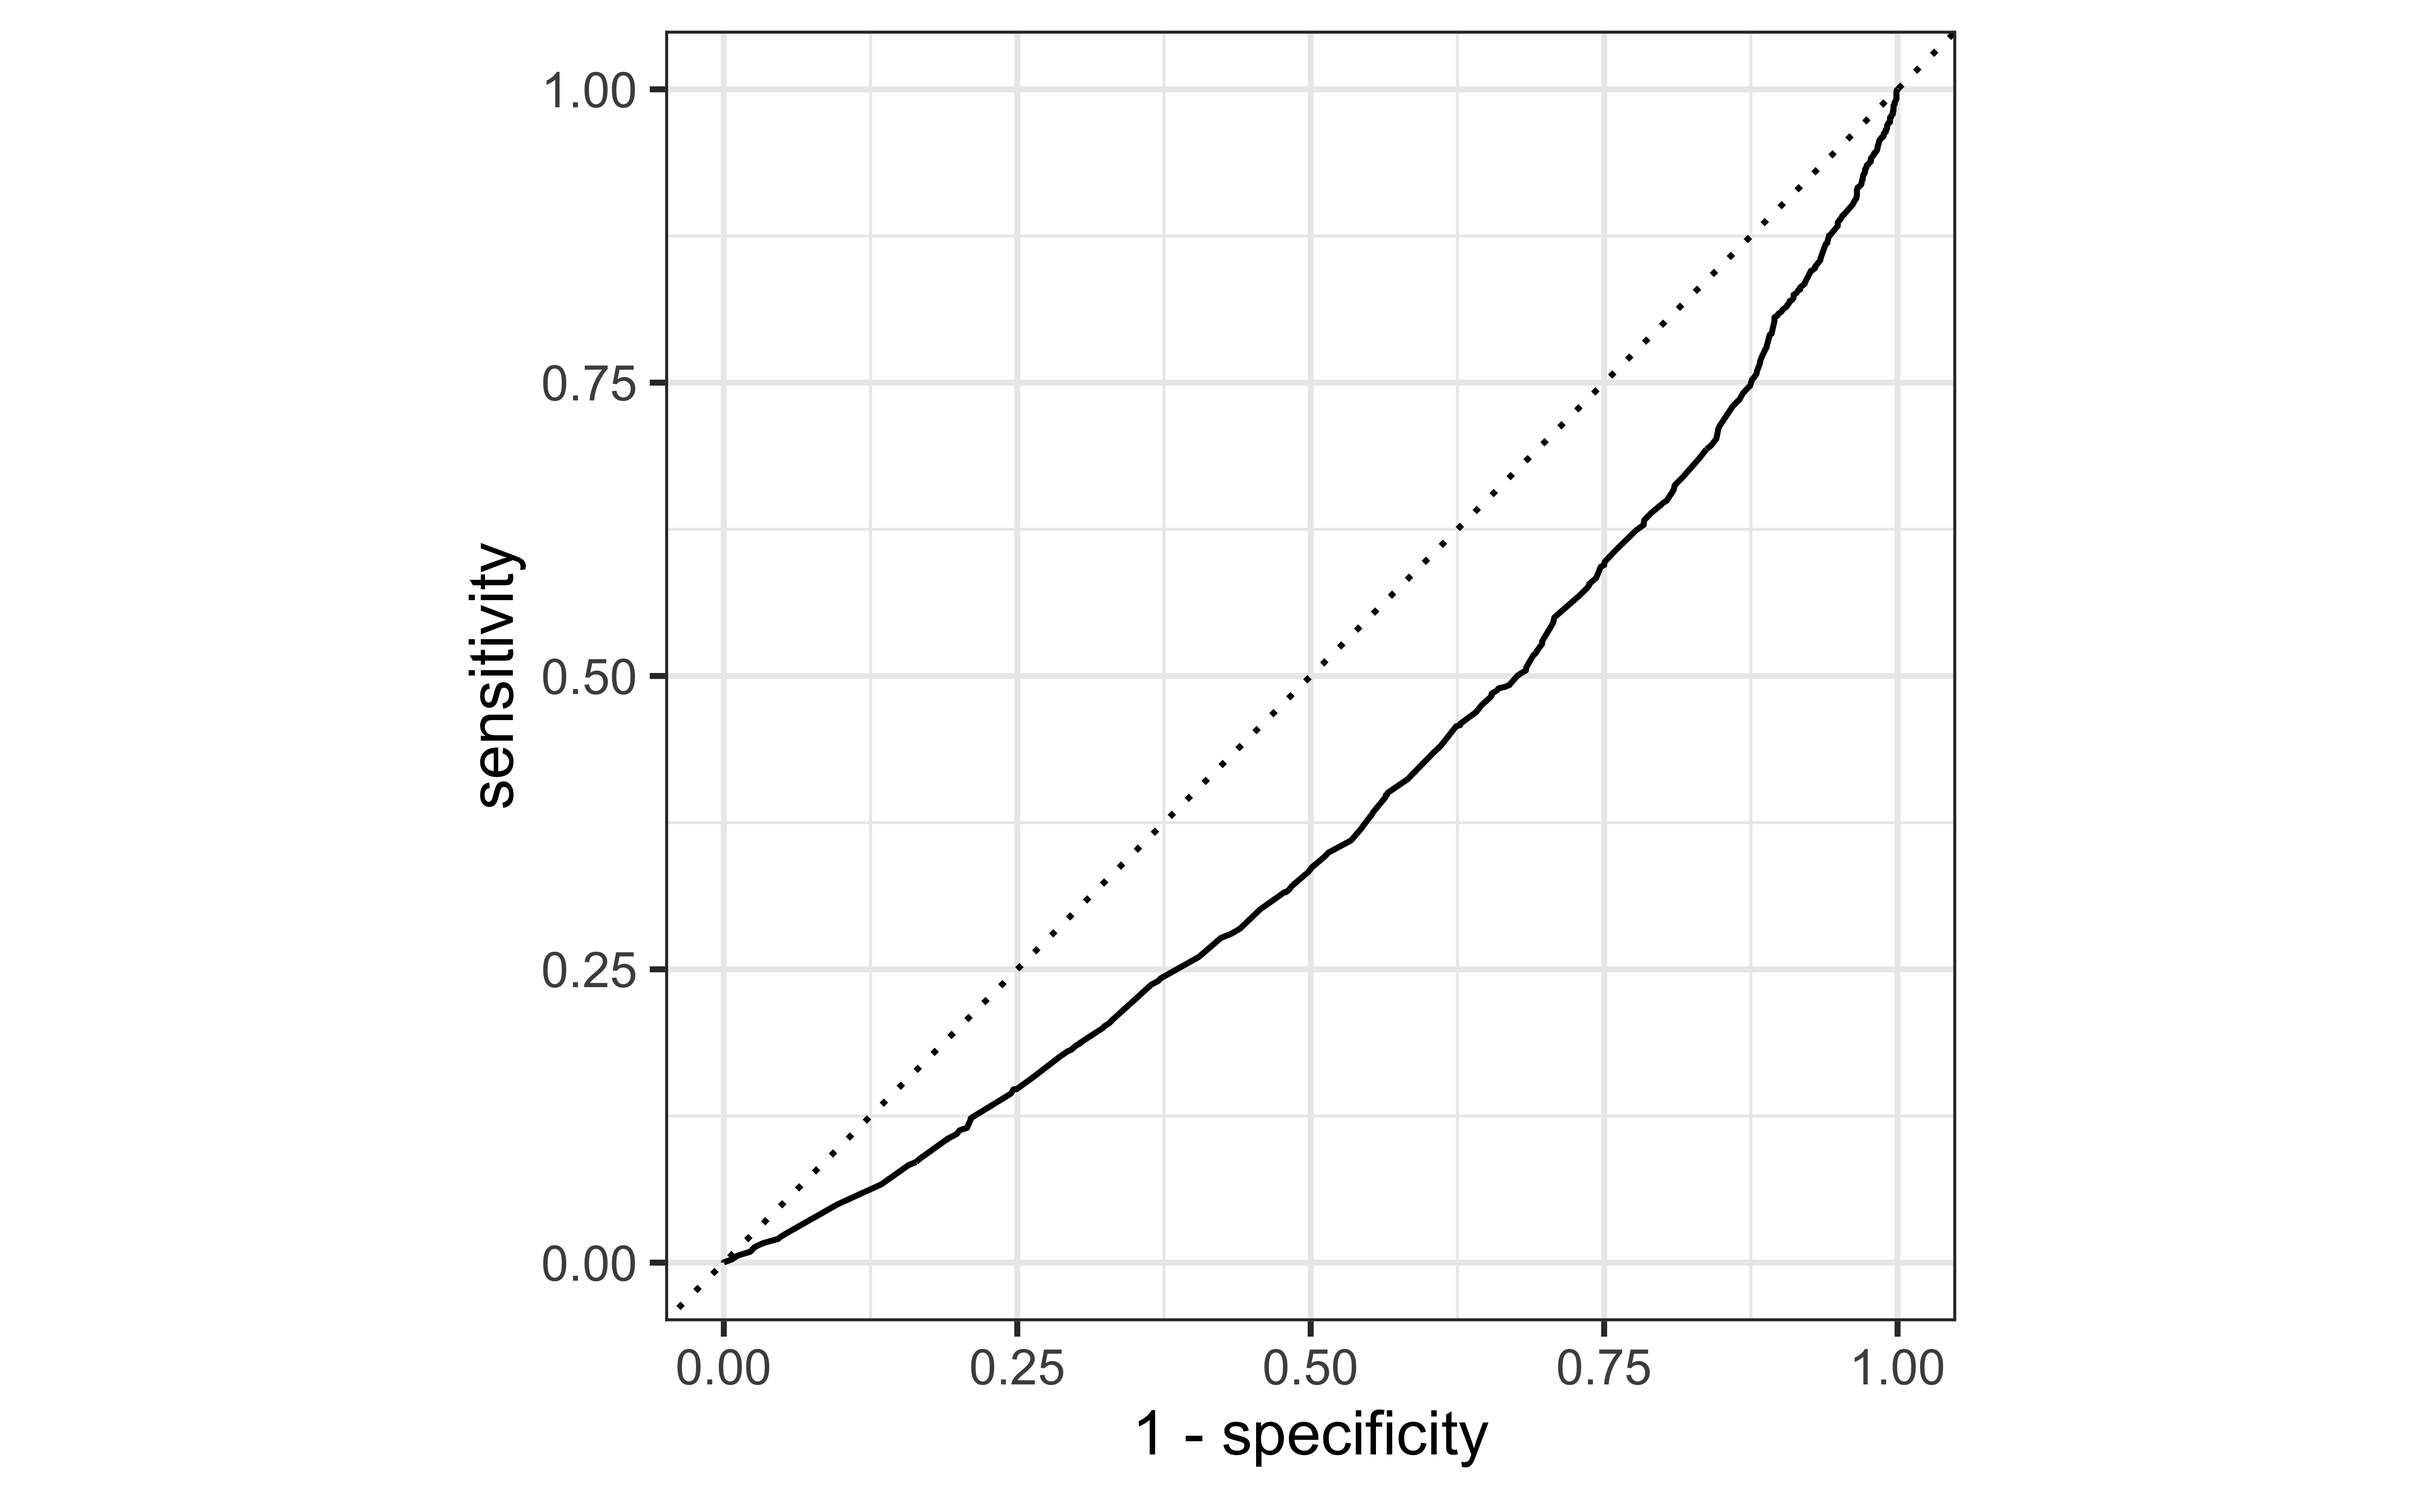
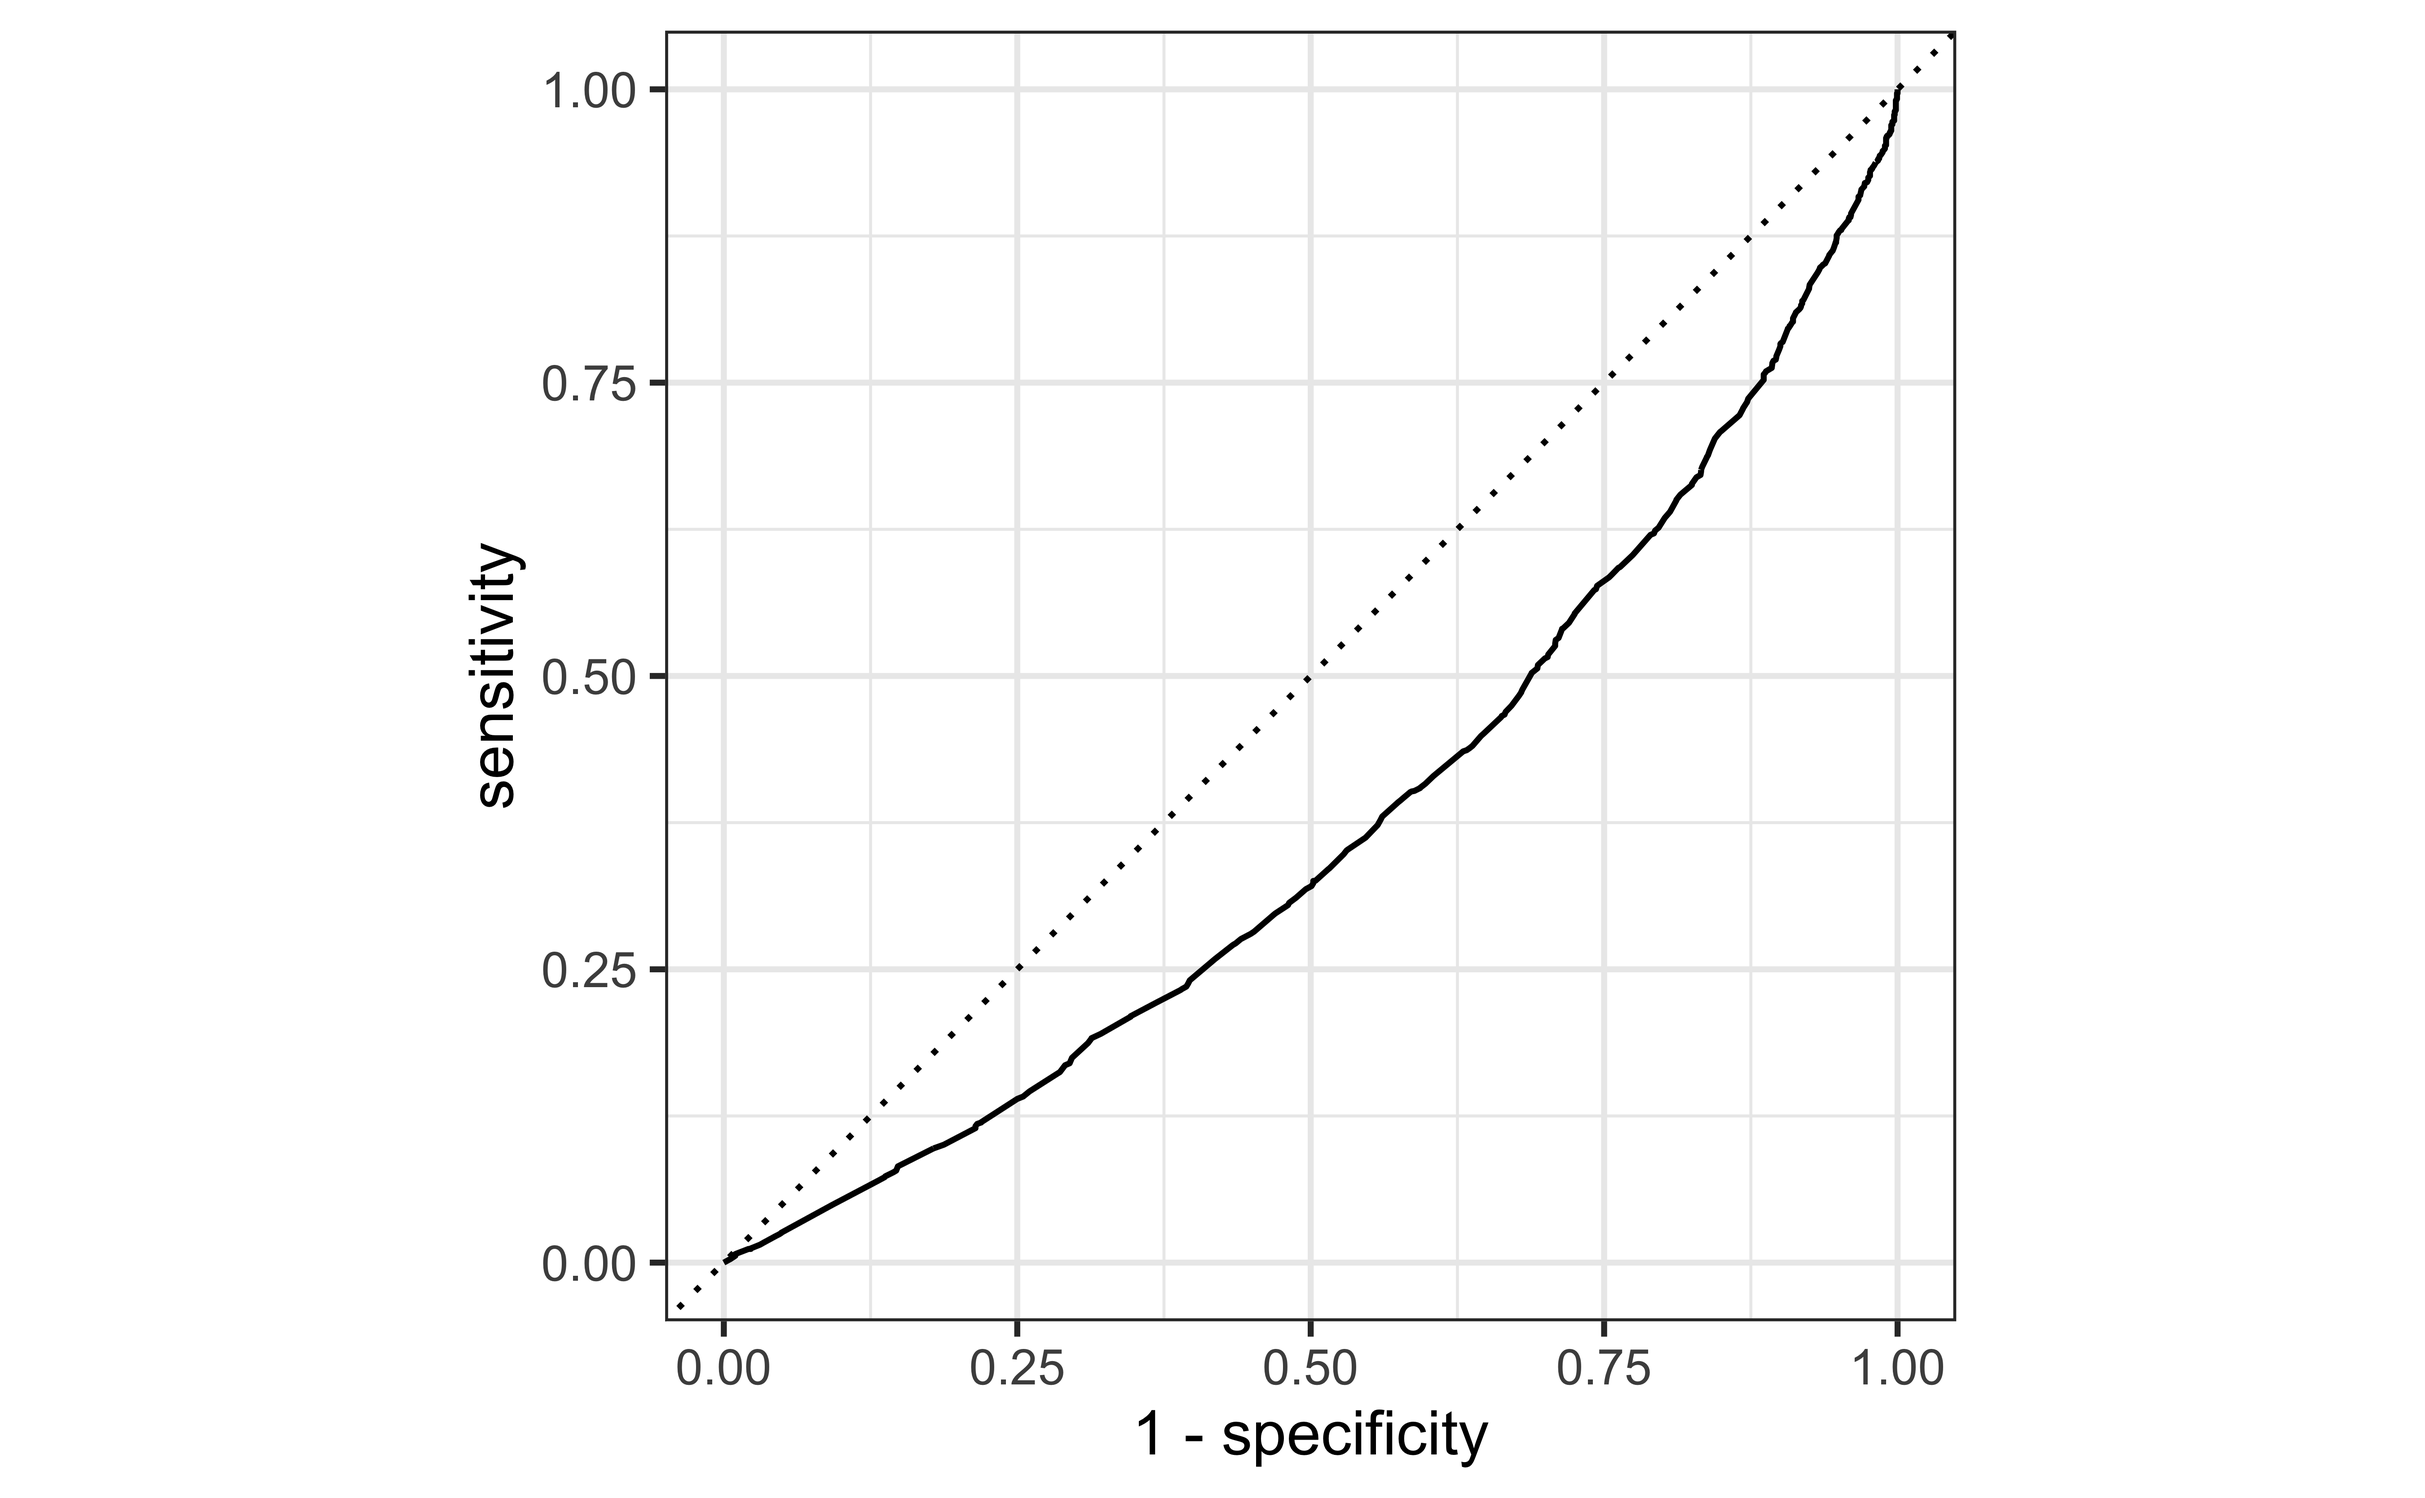
presentation

diff --git a/presentation.html b/presentation.html
@@ -87,10 +87,10 @@ class: inverse, centre, middle
 
 ---
 #Prison Type and Violence 
-.pull-left[
+.pull-right[
 - The area under the ROC curve is 0.474 which tells us that the prison type variable is not effective at predicting whether a prisoner will reoffend.
 ]
-.pull-right[
+.pull-left[
 
 
 &lt;img src="presentation_files/figure-html/building model-1.png" width="80%" /&gt;
@@ -101,6 +101,10 @@ class: inverse, centre, middle
 .pull-left[
 &lt;img src="presentation_files/figure-html/unnamed-chunk-3-1.png" width="80%" /&gt;
 
+]
+
+.pull-right[
+- The area under the curve is 0.4479 which shows there is no correlation between the violence of the prisoner and reoffending.
 ]
 ---
 # Reoffending and violence, age, sex, religion and prison type 
@@ -124,33 +128,14 @@ class: inverse, centre, middle
 ]
 
 .pull-right[
-- The area under the curve is 
+- The area under the curve is 0.374 which shows there is no correlation between all the variables and reoffending.
 ]
----
-# Age Group 
 
-.pull-left[
-
-```
-## New names:
-## New names:
-## • `age_group_X18...20` -&gt; `age_group_X18`
-## • `age_group_X21...24` -&gt; `age_group_X21`
-## • `age_group_X25...29` -&gt; `age_group_X25`
-## • `age_group_X30...39` -&gt; `age_group_X30`
-## • `age_group_X40...49` -&gt; `age_group_X40`
-## • `age_group_X50...59` -&gt; `age_group_X50`
-## • `age_group_X60...69` -&gt; `age_group_X60`
-```
-
-&lt;img src="presentation_files/figure-html/age model-1.png" width="80%" /&gt;
-
-]
 ---
 # Violence and Sex
 
 .pull-left[
-&lt;img src="presentation_files/figure-html/unnamed-chunk-6-1.png" width="80%" /&gt;
+&lt;img src="presentation_files/figure-html/unnamed-chunk-5-1.png" width="80%" /&gt;
 ]
 .pull-right[
 - The area under the curve is 0.496 showing again there is no correlation between the sex of the prisoner and the violence of the crimes they commit 
@@ -161,199 +146,11 @@ class: inverse, centre, middle
 
 - The models show us that the chance of reoffence cannot be predicted by any variable, including the violence of the crimes committed.
 ---
+class: inverse, middle, centre
 
-# xaringan
-
-- The presentation is created using the `xaringan` package
-
-- Use `---` to separate slides and `--` for incremental builds
-
---
-
-- Like this
+# Are there any questions?
 
 ---
-
-# Layouts
-
-You can use plain text
-
-- or bullet points
-
-.pull-left[
-or text in two columns `\(^*\)`
-]
-.pull-right[
-- like
-- this
-]
-
-.footnote[
-[*] And add footnotes
-]
-
----
-
-# Code
-
-
-```r
-# a boring regression
-model &lt;- lm(dist ~ speed, data = cars)
-tidy(model)
-```
-
-```
-## # A tibble: 2 × 5
-##   term        estimate std.error statistic  p.value
-##   &lt;chr&gt;          &lt;dbl&gt;     &lt;dbl&gt;     &lt;dbl&gt;    &lt;dbl&gt;
-## 1 (Intercept)   -17.6      6.76      -2.60 1.23e- 2
-## 2 speed           3.93     0.416      9.46 1.49e-12
-```
-
-```r
-glance(model)
-```
-
-```
-## # A tibble: 1 × 12
-##   r.squared adj.r.squared sigma statistic  p.value    df logLik   AIC   BIC
-##       &lt;dbl&gt;         &lt;dbl&gt; &lt;dbl&gt;     &lt;dbl&gt;    &lt;dbl&gt; &lt;dbl&gt;  &lt;dbl&gt; &lt;dbl&gt; &lt;dbl&gt;
-## 1     0.651         0.644  15.4      89.6 1.49e-12     1  -207.  419.  425.
-## # ℹ 3 more variables: deviance &lt;dbl&gt;, df.residual &lt;int&gt;, nobs &lt;int&gt;
-```
-
----
-
-# Plots
-
-
-
-&lt;img src="presentation_files/figure-html/plot-iris-1.png" width="80%" /&gt;
-
----
-
-## Plot and text
-
-.pull-left[
-- Some text
-- goes here
-]
-.pull-right[
-&lt;img src="presentation_files/figure-html/unnamed-chunk-7-1.png" width="100%" /&gt;
-]
-
----
-
-# Tables
-
-If you want to generate a table, make sure it is in the HTML format (instead of Markdown or other formats), e.g.,
-
-&lt;table&gt;
- &lt;thead&gt;
-  &lt;tr&gt;
-   &lt;th style="text-align:right;"&gt; Sepal.Length &lt;/th&gt;
-   &lt;th style="text-align:right;"&gt; Sepal.Width &lt;/th&gt;
-   &lt;th style="text-align:right;"&gt; Petal.Length &lt;/th&gt;
-   &lt;th style="text-align:right;"&gt; Petal.Width &lt;/th&gt;
-   &lt;th style="text-align:left;"&gt; Species &lt;/th&gt;
-  &lt;/tr&gt;
- &lt;/thead&gt;
-&lt;tbody&gt;
-  &lt;tr&gt;
-   &lt;td style="text-align:right;"&gt; 5.1 &lt;/td&gt;
-   &lt;td style="text-align:right;"&gt; 3.5 &lt;/td&gt;
-   &lt;td style="text-align:right;"&gt; 1.4 &lt;/td&gt;
-   &lt;td style="text-align:right;"&gt; 0.2 &lt;/td&gt;
-   &lt;td style="text-align:left;"&gt; setosa &lt;/td&gt;
-  &lt;/tr&gt;
-  &lt;tr&gt;
-   &lt;td style="text-align:right;"&gt; 4.9 &lt;/td&gt;
-   &lt;td style="text-align:right;"&gt; 3.0 &lt;/td&gt;
-   &lt;td style="text-align:right;"&gt; 1.4 &lt;/td&gt;
-   &lt;td style="text-align:right;"&gt; 0.2 &lt;/td&gt;
-   &lt;td style="text-align:left;"&gt; setosa &lt;/td&gt;
-  &lt;/tr&gt;
-  &lt;tr&gt;
-   &lt;td style="text-align:right;"&gt; 4.7 &lt;/td&gt;
-   &lt;td style="text-align:right;"&gt; 3.2 &lt;/td&gt;
-   &lt;td style="text-align:right;"&gt; 1.3 &lt;/td&gt;
-   &lt;td style="text-align:right;"&gt; 0.2 &lt;/td&gt;
-   &lt;td style="text-align:left;"&gt; setosa &lt;/td&gt;
-  &lt;/tr&gt;
-  &lt;tr&gt;
-   &lt;td style="text-align:right;"&gt; 4.6 &lt;/td&gt;
-   &lt;td style="text-align:right;"&gt; 3.1 &lt;/td&gt;
-   &lt;td style="text-align:right;"&gt; 1.5 &lt;/td&gt;
-   &lt;td style="text-align:right;"&gt; 0.2 &lt;/td&gt;
-   &lt;td style="text-align:left;"&gt; setosa &lt;/td&gt;
-  &lt;/tr&gt;
-  &lt;tr&gt;
-   &lt;td style="text-align:right;"&gt; 5.0 &lt;/td&gt;
-   &lt;td style="text-align:right;"&gt; 3.6 &lt;/td&gt;
-   &lt;td style="text-align:right;"&gt; 1.4 &lt;/td&gt;
-   &lt;td style="text-align:right;"&gt; 0.2 &lt;/td&gt;
-   &lt;td style="text-align:left;"&gt; setosa &lt;/td&gt;
-  &lt;/tr&gt;
-  &lt;tr&gt;
-   &lt;td style="text-align:right;"&gt; 5.4 &lt;/td&gt;
-   &lt;td style="text-align:right;"&gt; 3.9 &lt;/td&gt;
-   &lt;td style="text-align:right;"&gt; 1.7 &lt;/td&gt;
-   &lt;td style="text-align:right;"&gt; 0.4 &lt;/td&gt;
-   &lt;td style="text-align:left;"&gt; setosa &lt;/td&gt;
-  &lt;/tr&gt;
-&lt;/tbody&gt;
-&lt;/table&gt;
-
----
-
-# Images
-
-&lt;div class="figure" style="text-align: center"&gt;
-&lt;img src="img/edinburgh-castle.jpg" alt="Image credit: Photo by Jörg Angeli on Unsplash." width="55%" /&gt;
-&lt;p class="caption"&gt;Image credit: Photo by Jörg Angeli on Unsplash.&lt;/p&gt;
-&lt;/div&gt;
-
-Or you can also include a full page image. See next slide.
-
----
-
-
-class: inverse, center, middle
-background-image: url(img/edinburgh-castle.jpg)
-background-size: contain
----
-
-# Math Expressions
-
-You can write LaTeX math expressions inside a pair of dollar signs, e.g. &amp;#36;\alpha+\beta$ renders `\(\alpha+\beta\)`. You can use the display style with double dollar signs:
-
-```
-$$\bar{X}=\frac{1}{n}\sum_{i=1}^nX_i$$
-```
-
-`$$\bar{X}=\frac{1}{n}\sum_{i=1}^nX_i$$`
-
-Limitations:
-
-1. The source code of a LaTeX math expression must be in one line, unless it is inside a pair of double dollar signs, in which case the starting `$$` must appear in the very beginning of a line, followed immediately by a non-space character, and the ending `$$` must be at the end of a line, led by a non-space character;
-
-1. There should not be spaces after the opening `$` or before the closing `$`.
-
-1. Math does not work on the title slide (see [#61](https://github.com/yihui/xaringan/issues/61) for a workaround).
-
----
-
-# Feeling adventurous?
-
-- Want to find out more about `xaringan`? See https://slides.yihui.name/xaringan/#1.
-
-- You are welcome to use the default styling of the slides. In fact, that's what I expect majority of you will do. You will differentiate yourself with the content of your presentation.
-
-- But some of you might want to play around with slide styling. The 
-`xaringanthemer` provides some solutions for this that: https://pkg.garrickadenbuie.com/xaringanthemer.
-
-- And if you want more bells and whistles, there is also `xaringanExtra`: https://pkg.garrickadenbuie.com/xaringanExtra.
     </textarea>
 <style data-target="print-only">@media screen {.remark-slide-container{display:block;}.remark-slide-scaler{box-shadow:none;}}</style>
 <script src="https://remarkjs.com/downloads/remark-latest.min.js"></script>
